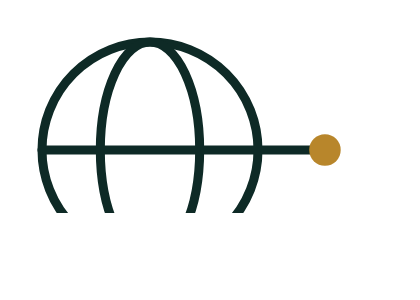
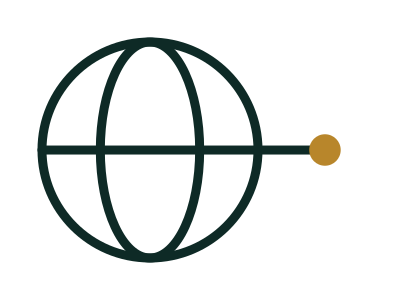
brand: fix the renderer that was cutting the bottom off every PNG
I rasterised the SVGs by screenshotting them in chromium, and chromium
truncated the bottom of each image: the email logo carried content only to
y=103 of 190, so the descriptor never appeared and the globe was sliced, and
the 512 icon stopped at y=425. The SVGs were correct all along.

tools/logo-png.py now rasterises through cairosvg, and the script prints a
check so a clipped export cannot pass silently again. The email signature
switched to the version without the descriptor, since at 300 pixels wide the
descriptor was unreadable anyway, and signature.html was rebuilt around it.

Claude-Session: https://claude.ai/code/session_0151ZApF1udXvgWuNKWDLg8z

Changed region(s): [[0.1238, 0.69, 0.5881, 0.9], [0.4643, 0.15, 0.4952, 0.18], [0.2167, 0.15, 0.2476, 0.18]]

diff --git a/brand/signature.html b/brand/signature.html
@@ -2,15 +2,15 @@
 <html><head><meta charset="utf-8"><title>Подпись для Gmail</title>
 <style>body{margin:0;padding:40px;background:#f4f6f4;font:14px/1.5 -apple-system,Helvetica,Arial}
 .note{max-width:640px;margin:0 0 28px;color:#4a635d;font-size:13px}
-.box{background:#fff;padding:28px 30px;border:1px solid #ccd8d3;border-radius:10px;max-width:640px}</style>
+.box{background:#fff;padding:30px 32px;border:1px solid #ccd8d3;border-radius:10px;max-width:640px}</style>
 </head><body>
 <p class="note">Выдели всё внутри рамки, скопируй и вставь в Gmail: Настройки, Общие, Подпись.
 Картинка вшита в файл, ничего отдельно загружать не надо.</p>
 <div class="box">
 <div style="font-family:Arial,Helvetica,sans-serif;font-size:13px;line-height:1.55;color:#0e2a26">
[2 lines of base64/hex data omitted]
 <div style="font-weight:bold">Aleksandr Orlov<span style="font-weight:normal;color:#4a635d"> &middot; Member</span></div>
-<div style="color:#4a635d">ISP GROUP LLC</div>
+<div style="color:#4a635d">ISP GROUP LLC &middot; Global Commerce</div>
 <div style="color:#4a635d">16395 Biscayne Blvd, North Miami Beach, FL 33160</div>
 <div style="margin-top:7px">
 <a href="tel:+19298300038" style="color:#0e2a26;text-decoration:none">(929) 830-0038</a>

diff --git a/tools/logo-png.py b/tools/logo-png.py
@@ -1,22 +1,27 @@
 # -*- coding: utf-8 -*-
-"""Экспорт логотипа в PNG через chromium. Фон прозрачный.
+"""Экспорт логотипа в PNG. Фон прозрачный.
+
+Растеризация идёт через cairosvg, а не скриншотом браузера: скриншот обрезал
+низ картинки, из-за чего пропадал дескриптор и срезался шар.
 
 Запуск: python3.13 tools/logo-png.py
 """
-import os, re, subprocess, tempfile
+import os
+import re
+import cairosvg
 
 HERE = os.path.dirname(os.path.abspath(__file__))
 BRAND = os.path.abspath(os.path.join(HERE, "..", "brand"))
-CHROME = "/opt/pw-browsers/chromium"
 
 JOBS = [
-    ("logo-light.svg",         "logo-light.png",        1400),
-    ("logo-dark.svg",          "logo-dark.png",         1400),
-    ("logo-light-plain.svg",   "logo-light-plain.png",  1200),
-    ("logo-dark-plain.svg",    "logo-dark-plain.png",   1200),
+    ("logo-light.svg",         "logo-light.png",        1600),
+    ("logo-dark.svg",          "logo-dark.png",         1600),
+    ("logo-light-plain.svg",   "logo-light-plain.png",  1400),
+    ("logo-dark-plain.svg",    "logo-dark-plain.png",   1400),
     ("logo-stacked-light.svg", "logo-stacked-light.png", 900),
     ("logo-stacked-dark.svg",  "logo-stacked-dark.png",  900),
-    ("logo-light.svg",         "logo-email.png",         720),
+    # подпись в письме: без дескриптора, он на такой высоте нечитаем
+    ("logo-light-plain.svg",   "logo-email.png",         760),
     ("mark-ink.svg",           "mark-ink.png",           420),
     ("mark-cream.svg",         "mark-cream.png",         420),
     ("icon.svg",               "favicon-512.png",        512),
@@ -36,21 +41,9 @@ def main():
         sp = os.path.join(BRAND, src)
         vw, vh = viewbox(sp)
         h = round(width * vh / vw)
-        html = ('<!doctype html><meta charset="utf-8">'
-                '<style>html,body{margin:0;background:transparent}'
-                'img{display:block;width:%dpx;height:%dpx}</style>'
-                '<img src="file://%s">' % (width, h, sp))
-        with tempfile.NamedTemporaryFile("w", suffix=".html", delete=False,
-                                         encoding="utf8") as f:
-            f.write(html)
-            tmp = f.name
         out = os.path.join(BRAND, dst)
-        subprocess.run([CHROME, "--headless", "--disable-gpu", "--no-sandbox",
-                        "--hide-scrollbars", "--default-background-color=00000000",
-                        "--window-size=%d,%d" % (width, h),
-                        "--screenshot=" + out, "file://" + tmp],
-                       capture_output=True)
-        os.unlink(tmp)
+        cairosvg.svg2png(url=sp, write_to=out,
+                         output_width=width, output_height=h)
         print("  -> brand/%s  %dx%d" % (dst, width, h))
 
 
